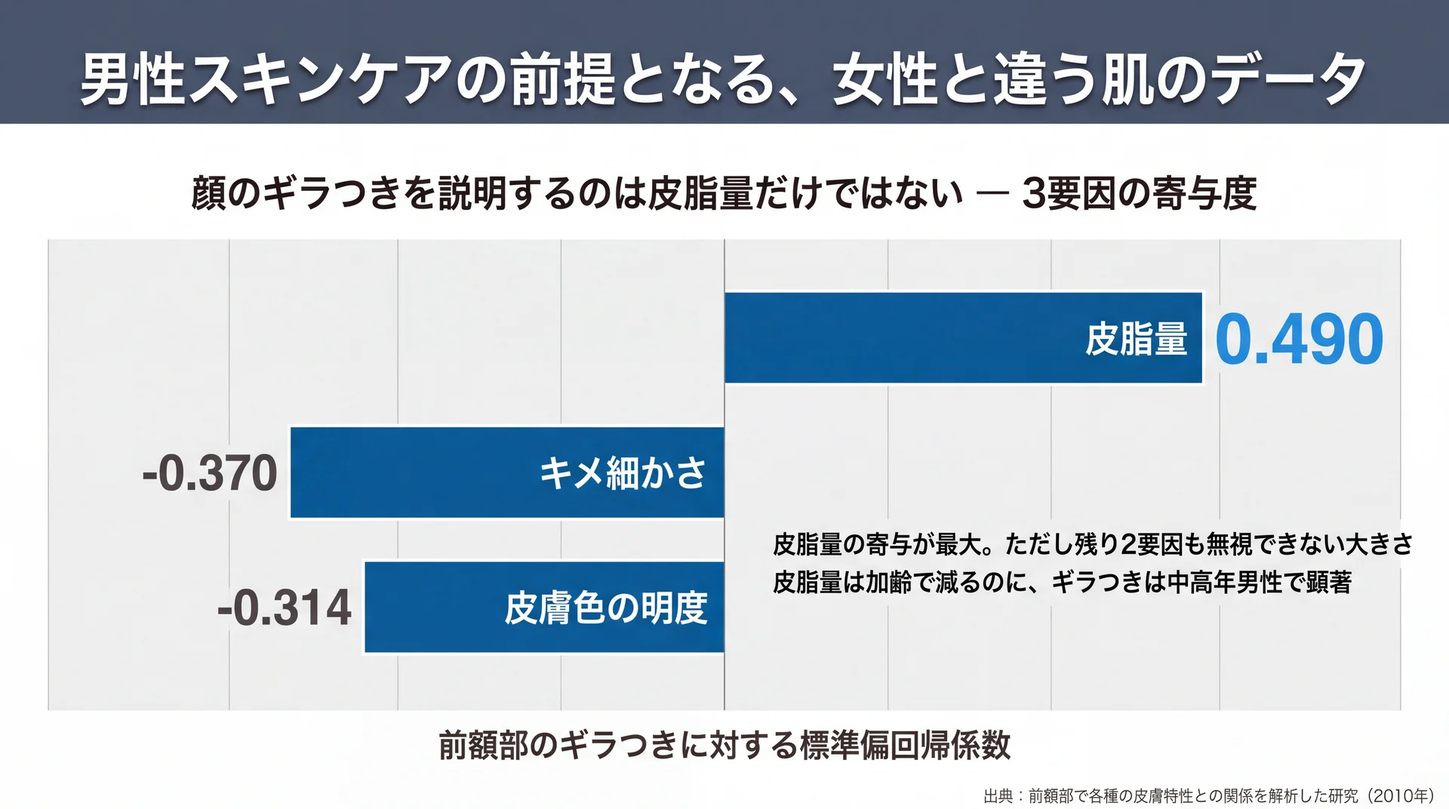
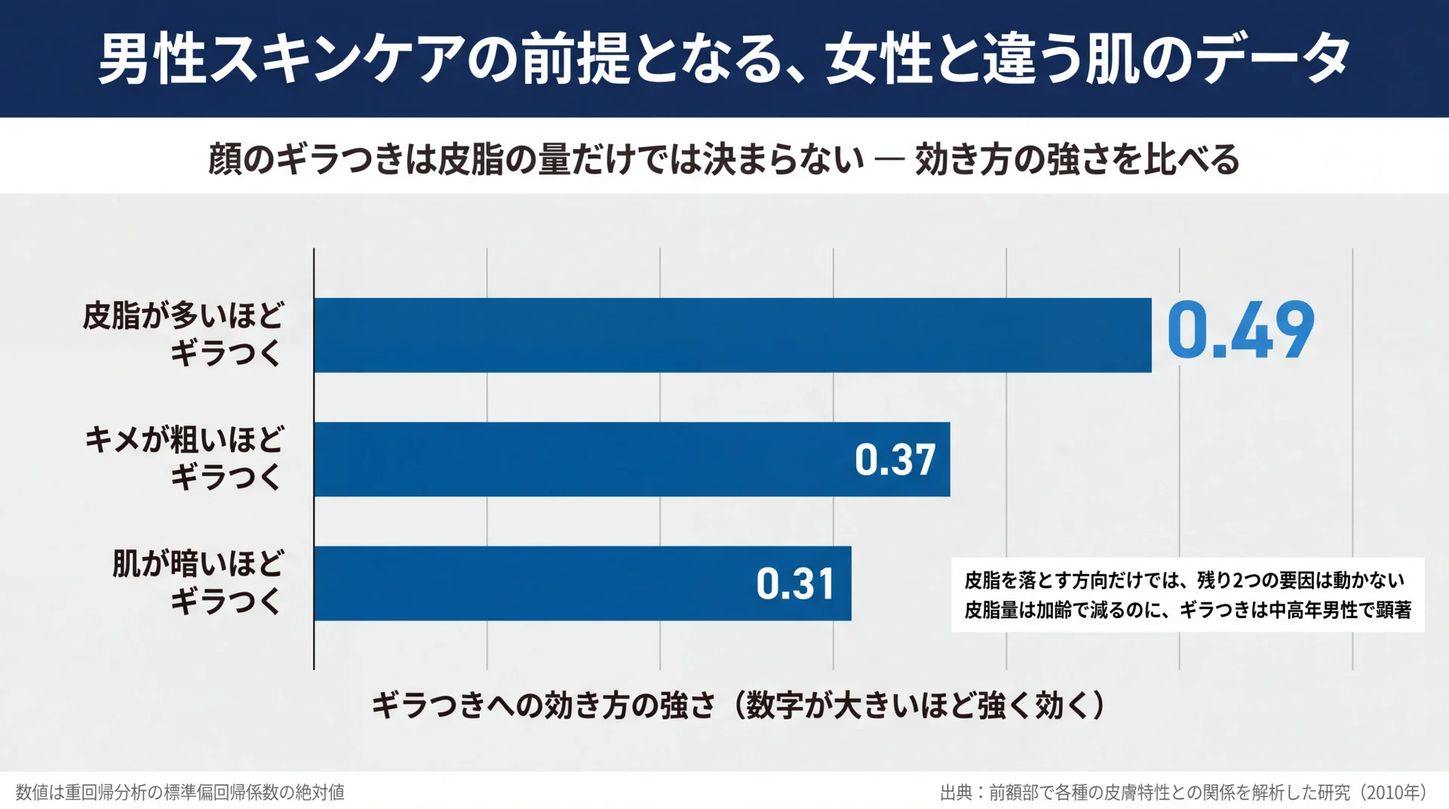
publish: orbis-mr-mens-skincare

diff --git a/2026/08/orbis-mr-mens-skincare.html b/2026/08/orbis-mr-mens-skincare.html
@@ -57,12 +57,12 @@
 </style><h1 style="font-size:32px; font-weight:700; margin:24px 0 16px; padding-bottom:10px; border-bottom:1px solid #eaeef2; line-height:1.3;">男性スキンケアの基本｜女性と違う肌データから決める最小構成</h1>
 <p style="margin:14px 0; line-height:1.7;">男性の肌は「皮脂が多い」だけでは説明がつきません。25〜40歳の日本人男女を比べた研究では、男性の頬は<span style="background:linear-gradient(transparent 60%,#FFFF00 60%)"><strong>水分量が低いうえに、水分が逃げる量は多い</strong></span>と報告されています。塗っても条件が変わらない理由はここにあります。本記事で扱うのは、測定データから見た男性の肌の条件と、そこから決まる最小構成です。全体像は<a href="/mens-skincare/" style="color:#0969da; text-decoration:none; border-bottom:1px solid #eaeef2;">メンズスキンケアの全体像を整理した基本ガイド</a>にまとめています。</p>
 <h2 style="font-size:24px; font-weight:600; margin:32px 0 16px; padding-bottom:8px; border-bottom:1px solid #eaeef2; line-height:1.3;">男性スキンケアの前提となる、女性と違う肌のデータ</h2>
-<p style="margin:14px 0; line-height:1.7;"><img src="https://shun-toda.github.io/html-publish/2026/08/orbis-mr-mens-skincare/h2_01_%E8%82%8C%E3%83%87%E3%83%BC%E3%82%BF_%E7%94%B7%E5%A5%B3%E5%B7%AE.webp" alt="前額部のギラつきへの寄与は皮脂量0.490・キメ細かさ-0.370・明度-0.314で、皮脂以外の2要因も無視できない大きさであることを示した横棒グラフ" loading="lazy" style="max-width:100%; height:auto; display:block; margin:16px auto; border-radius:6px;" /><br><em>ギラつきを説明する3要因の寄与度。皮脂量の寄与が最大でも、キメと明度の2要因も無視できない大きさ（出典: 前額部で各種の皮膚特性との関係を解析した研究〈2010年〉を基に当社作成）</em></p>
+<p style="margin:14px 0; line-height:1.7;"><img src="https://shun-toda.github.io/html-publish/2026/08/orbis-mr-mens-skincare/h2_01_%E8%82%8C%E3%83%87%E3%83%BC%E3%82%BF_%E7%94%B7%E5%A5%B3%E5%B7%AE.webp" alt="ギラつきへの効き方の強さを皮脂の多さ0.49・キメの粗さ0.37・肌の暗さ0.31で並べ、皮脂以外の2要因も無視できない大きさであることを示した横棒グラフ" loading="lazy" style="max-width:100%; height:auto; display:block; margin:16px auto; border-radius:6px;" /><br><em>皮脂を落とす方向だけではギラつきは動かない。効き方の強さは皮脂0.49に対し、キメの粗さ0.37・肌の暗さ0.31（出典: 前額部で各種の皮膚特性との関係を解析した研究〈2010年〉を基に当社作成）</em></p>
 <p style="margin:14px 0; line-height:1.7;">男性の頬は女性より水分量が低く、水分が逃げる量は多いと報告されています。皮脂が多いのに乾くという矛盾した感覚は、この2つが同時に起きているためです。まずは、何がどう違うのかを測定項目のレベルで押さえます。</p>
 <h3 style="font-size:20px; font-weight:600; margin:24px 0 12px; line-height:1.3;">水分は「少ない」だけでなく「逃げやすい」</h3>
 <p style="margin:14px 0; line-height:1.7;">日本香粧品学会誌に掲載された<a href="https://www.jstage.jst.go.jp/article/koshohin/45/3/45_450306/_article/-char/ja" style="color:#0969da; text-decoration:none; border-bottom:1px solid #eaeef2;">成人男女の肌状態を比較した研究（2021年）</a>では、25〜40歳の健常な日本人男女を夏季に測定しています。男性の頬は女性と比べて水分量が低く、経表皮水分蒸散量（角層から空気中へ逃げていく水分の量）が高いという結果でした。さらに、肌の回復率を示す指標と、縮んだ状態からの戻りやすさを示す指標がいずれも低いことも報告されています。</p>
 <p style="margin:14px 0; line-height:1.7;">同じ研究では、頬の角層中にあるスーパーオキシドディスムターゼ1という抗酸化にかかわる物質の量が、<span style="color:red"><strong>女性の半分未満</strong></span>だったことも示されています。加えて、角層の慢性的な炎症の指標とされる比率が男性で有意に高いという結果でした。論文は、こうした差の背景について「スキンケアやサンケアの使用頻度が少ないことだけが原因ではない」と述べています。</p>
-<p style="margin:14px 0; line-height:1.7;">当社はこの結果を、<strong>男性の肌は皮脂が余っている状態ではなく、うるおいを保つ条件のほうが不利な状態にある</strong>と読んでいます。だとすれば、洗って皮脂を落とす工程だけを繰り返しても、条件そのものは変わりません。読者にとっての含意は単純で、<strong>「落とす」と同じ重みで「入れる」「逃がさない」を置く必要がある</strong>ということです。</p>
+<p style="margin:14px 0; line-height:1.7;">ここから読み取れるのは、<strong>男性の肌は皮脂が余っている状態ではなく、うるおいを保つ条件のほうが不利な状態にある</strong>ということです。だとすれば、洗って皮脂を落とす工程だけを繰り返しても、条件そのものは変わりません。読者にとっての含意は単純で、<strong>「落とす」と同じ重みで「入れる」「逃がさない」を置く必要がある</strong>ということです。</p>
 <p style="margin:14px 0; line-height:1.7;">以下は、確認できた一次文献の測定項目を横断して整理したものです。</p>
 <div style="overflow-x:auto; margin:18px 0;"><table style="border-collapse:collapse; width:100%; font-size:14px;">
 <thead style="background:#f6f8fa;">
@@ -105,21 +105,21 @@
 </tbody></table></div>
 <p style="margin:14px 0; line-height:1.7;"><em>データ出典: 上5項目は<a href="https://www.jstage.jst.go.jp/article/koshohin/45/3/45_450306/_article/-char/ja" style="color:#0969da; text-decoration:none; border-bottom:1px solid #eaeef2;">成人男女の肌状態を比較した研究（2021年）</a>、皮膚の厚みは<a href="https://www.jstage.jst.go.jp/article/sccj1979/23/4/23_4_316/_article/-char/ja" style="color:#0969da; text-decoration:none; border-bottom:1px solid #eaeef2;">顔面皮膚厚の超音波測定（1990年発行）</a></em></p>
 <h3 style="font-size:20px; font-weight:600; margin:24px 0 12px; line-height:1.3;">皮膚は厚いが、それは固定値ではない</h3>
-<p style="margin:14px 0; line-height:1.7;">「男性の皮膚は厚い」という説明は広く知られていますが、当社が確認した範囲では、どの程度厚いのかを実測で示した資料は限られます。<a href="https://www.jstage.jst.go.jp/article/sccj1979/23/4/23_4_316/_article/-char/ja" style="color:#0969da; text-decoration:none; border-bottom:1px solid #eaeef2;">超音波断層撮影装置で顔面の皮膚厚を測定した研究（1990年発行）</a>では、額と頬の皮膚厚は男女いずれも加齢に伴って減少し、そのうえで<span style="background:linear-gradient(transparent 60%,#FFFF00 60%)"><strong>すべての年齢層で男性のほうが厚かった</strong></span>と報告されています。顔の12部位を測った結果では、まぶたが顎や頬より薄いことも示されました。</p>
-<p style="margin:14px 0; line-height:1.7;">つまり厚みは、男性のほうが有利な出発点ではあっても、年齢とともに動く値です。当社は、この点を「厚いから丈夫、だから何もしなくてよい」という通念への反証として扱っています。読者にとっては、<strong>今の肌の条件が将来も同じとは限らない</strong>という意味になります。</p>
+<p style="margin:14px 0; line-height:1.7;">「男性の皮膚は厚い」という説明は広く知られていますが、確認できた範囲では、どの程度厚いのかを実測で示した資料は限られます。<a href="https://www.jstage.jst.go.jp/article/sccj1979/23/4/23_4_316/_article/-char/ja" style="color:#0969da; text-decoration:none; border-bottom:1px solid #eaeef2;">超音波断層撮影装置で顔面の皮膚厚を測定した研究（1990年発行）</a>では、額と頬の皮膚厚は男女いずれも加齢に伴って減少し、そのうえで<span style="background:linear-gradient(transparent 60%,#FFFF00 60%)"><strong>すべての年齢層で男性のほうが厚かった</strong></span>と報告されています。顔の12部位を測った結果では、まぶたが顎や頬より薄いことも示されました。</p>
+<p style="margin:14px 0; line-height:1.7;">つまり厚みは、男性のほうが有利な出発点ではあっても、年齢とともに動く値です。この点は、「厚いから丈夫、だから何もしなくてよい」という通念への反証になります。読者にとっては、<strong>今の肌の条件が将来も同じとは限らない</strong>という意味になります。</p>
 <h3 style="font-size:20px; font-weight:600; margin:24px 0 12px; line-height:1.3;">皮脂の量だけでは、見た目のテカリを説明しきれない</h3>
 <p style="margin:14px 0; line-height:1.7;">男性の顔で「ギラつき」と呼ばれる見え方について、<a href="https://www.jstage.jst.go.jp/article/sccj/44/2/44_118/_article/-char/ja" style="color:#0969da; text-decoration:none; border-bottom:1px solid #eaeef2;">前額部で各種の皮膚特性との関係を解析した研究（2010年）</a>があります。重回帰分析の結果、標準偏回帰係数は皮脂量が0.490、キメ細かさが−0.370、皮膚色の明度が−0.314でした。皮脂量の寄与が最大ではあるものの、<span style="color:red"><strong>残り2つの要因も無視できない大きさ</strong></span>です。同じ研究は、皮脂量が加齢に伴って徐々に減少するのに対し、ギラつきはむしろ中高年男性で顕著だという逆転も指摘しています。</p>
-<p style="margin:14px 0; line-height:1.7;">当社はここから、<strong>皮脂の量だけを指標にして手入れを組むと判断を誤りやすい</strong>と考えています。読者にとっての含意は、皮脂を落とす方向にだけ力を入れても見た目が変わりきらない場面がある、ということです。</p>
-<p style="margin:14px 0; line-height:1.7;">なお、「男性の皮脂量は女性の約2.5倍」という数字が広く引用されています。当社が一次文献を追跡した範囲では、この比率の出所を特定できませんでした。本記事では、出典をたどれた測定結果だけを扱います。</p>
+<p style="margin:14px 0; line-height:1.7;">ここから言えるのは、<strong>皮脂の量だけを指標にして手入れを組むと判断を誤りやすい</strong>ということです。読者にとっての含意は、皮脂を落とす方向にだけ力を入れても見た目が変わりきらない場面がある、ということです。</p>
+<p style="margin:14px 0; line-height:1.7;">なお、「男性の皮脂量は女性の約2.5倍」という数字が広く引用されています。一次文献を追跡した範囲では、この比率の出所を特定できませんでした。本記事では、出典をたどれた測定結果だけを扱います。</p>
 <h2 style="font-size:24px; font-weight:600; margin:32px 0 16px; padding-bottom:8px; border-bottom:1px solid #eaeef2; line-height:1.3;">肌の違いは、毎日のケア設計をどう変えるのか</h2>
-<p style="margin:14px 0; line-height:1.7;"><img src="https://shun-toda.github.io/html-publish/2026/08/orbis-mr-mens-skincare/h2_02_%E9%83%A8%E4%BD%8D%E5%88%A5_%E3%82%B1%E3%82%A2%E8%A8%AD%E8%A8%88.webp" alt="Tゾーン・Uゾーン・頬下部を皮脂の出やすさと乾きやすさの2軸に配置し、部位ごとの量の配分を示したマップ" loading="lazy" style="max-width:100%; height:auto; display:block; margin:16px auto; border-radius:6px;" /><br><em>顔の中の条件差を2軸に配置した図。年間で最も乾く頬下部を基準に、洗浄の強さと量を決める（出典: 日本人男性の顔面皮膚を非侵襲的に測定し、女性と比較した研究〈2007年〉を基に当社作成／＊配置はイメージ）</em></p>
+<p style="margin:14px 0; line-height:1.7;"><img src="https://shun-toda.github.io/html-publish/2026/08/orbis-mr-mens-skincare/h2_02_%E9%83%A8%E4%BD%8D%E5%88%A5_%E3%82%B1%E3%82%A2%E8%A8%AD%E8%A8%88.webp" alt="Tゾーン・Uゾーン・頬下部を皮脂の出やすさと乾きやすさの2軸に配置し、部位ごとの量の配分を示したマップ" loading="lazy" style="max-width:100%; height:auto; display:block; margin:16px auto; border-radius:6px;" /><br><em>洗浄の強さと量は、年間で最も乾く頬下部を基準に決める。顔の中の条件差を皮脂の出やすさと乾きやすさの2軸に配置した図（出典: 日本人男性の顔面皮膚を非侵襲的に測定し、女性と比較した研究〈2007年〉を基に当社作成／＊配置はイメージ）</em></p>
 <p style="margin:14px 0; line-height:1.7;">男性の顔はTゾーンとUゾーンの差が女性より大きく、顔全体に同じものを同じ量だけ塗ると、どこかで過不足が出ます。ここからは、前章のデータが日々の手順に何を要求するのかを見ていきます。</p>
 <h3 style="font-size:20px; font-weight:600; margin:24px 0 12px; line-height:1.3;">洗浄は「落とす」より「落としすぎない」に軸足を置く</h3>
-<p style="margin:14px 0; line-height:1.7;">水分が逃げやすい条件のもとでは、洗浄の強さがそのまま乾きの度合いに跳ね返ります。皮脂が気になるほど洗浄力の強いものを選びたくなりますが、<span style="background:linear-gradient(transparent 60%,#FFFF00 60%)"><strong>男性の肌で先に不利になっているのは皮脂の量ではなく水分の保持</strong></span>です。当社は、洗浄工程で狙うのは「余分を落とすこと」までで、そこから先は削る作業になると考えています。</p>
+<p style="margin:14px 0; line-height:1.7;">水分が逃げやすい条件のもとでは、洗浄の強さがそのまま乾きの度合いに跳ね返ります。皮脂が気になるほど洗浄力の強いものを選びたくなりますが、<span style="background:linear-gradient(transparent 60%,#FFFF00 60%)"><strong>男性の肌で先に不利になっているのは皮脂の量ではなく水分の保持</strong></span>です。オルビスでは、洗浄工程で狙うのは「余分を落とすこと」までで、そこから先は削る作業だと考えています。</p>
 <p style="margin:14px 0; line-height:1.7;">洗顔料そのものの選び方や、剤形ごとの違いについては<a href="/mens-skincare/mens-face-wash-basics/" style="color:#0969da; text-decoration:none; border-bottom:1px solid #eaeef2;">メンズ洗顔料の基本と剤形ごとの違い</a>をご覧ください。</p>
 <h3 style="font-size:20px; font-weight:600; margin:24px 0 12px; line-height:1.3;">顔の中で条件が違う——部位で量を変える</h3>
 <p style="margin:14px 0; line-height:1.7;"><a href="https://www.jstage.jst.go.jp/article/sccj1979/41/2/41_2_94/_article/-char/ja" style="color:#0969da; text-decoration:none; border-bottom:1px solid #eaeef2;">日本人男性の顔面皮膚を非侵襲的に測定し、女性と比較した研究（2007年）</a>は、男性顔面のTゾーンとUゾーンの間で、皮膚コンダクタンスと皮脂分泌量の差異が女性よりも大きいことを報告しています。さらに、経表皮水分蒸散量と総伸長値の季節間変動はTゾーンとUゾーンで相反する傾向を示し、<span style="color:red"><strong>頬下部は年間を通じて最も乾燥している部位</strong></span>だとされています。</p>
-<p style="margin:14px 0; line-height:1.7;">この論文は冒頭で「男性顔面の皮膚生理に関する総合的知見はほとんど報告されていない」と述べており、男性の顔を部位ごとに測った資料自体が多くありません。当社はこの結果を、<strong>男性の顔は「一人ひとりの肌タイプ」ではなく「ひとつの顔の中の条件差」で捉えるべきだ</strong>という意味に受け取っています。読者にとっては、肌タイプ診断で自分を1つに分類しきれなくても問題ない、ということになります。</p>
+<p style="margin:14px 0; line-height:1.7;">この論文は冒頭で「男性顔面の皮膚生理に関する総合的知見はほとんど報告されていない」と述べており、男性の顔を部位ごとに測った資料自体が多くありません。この結果が意味するのは、<strong>男性の顔は「一人ひとりの肌タイプ」ではなく「ひとつの顔の中の条件差」で捉えるべきだ</strong>ということです。読者にとっては、肌タイプ診断で自分を1つに分類しきれなくても問題ない、ということになります。</p>
 <div style="overflow-x:auto; margin:18px 0;"><table style="border-collapse:collapse; width:100%; font-size:14px;">
 <thead style="background:#f6f8fa;">
 <tr>
@@ -149,32 +149,32 @@
 </tr>
 </tbody></table></div>
 <blockquote style="border-left:4px solid #d0d7de; padding:6px 16px; margin:18px 0; color:#57606a; background:#f6f8fa;">
-<h3 style="font-size:20px; font-weight:600; margin:24px 0 12px; line-height:1.3;">当社の見解・スタンス</h3>
-<p style="margin:14px 0; line-height:1.7;">当社が確認した範囲では、スキンケアの解説の多くが「自分の肌タイプに合ったものを選びましょう」という助言で締めくくられています。当社は、この助言が男性には当てはまりにくいと考えています。上の測定結果が示すのは、<strong>男性では一人の顔の中でTゾーンとUゾーンの条件が女性以上に離れている</strong>という事実だからです。</p>
-<p style="margin:14px 0; line-height:1.7;">そこで当社のオルビス ミスターは、部位ごとに別のアイテムを増やす方向ではなく、<strong>同じ3本を部位で量だけ変えて使う</strong>設計を採っています。工程を増やせば条件差には対応できますが、続かなければ意味がありません。当社は、続かない原因を本人の意志ではなく工程数の側に置いています。</p>
+<h3 style="font-size:20px; font-weight:600; margin:24px 0 12px; line-height:1.3;">オルビスの見解・スタンス</h3>
+<p style="margin:14px 0; line-height:1.7;">スキンケアの解説の多くは「自分の肌タイプに合ったものを選びましょう」という助言で締めくくられています。ただ、この助言は男性には当てはまりにくいと考えています。上の測定結果が示すのは、<strong>男性では一人の顔の中でTゾーンとUゾーンの条件が女性以上に離れている</strong>という事実だからです。</p>
+<p style="margin:14px 0; line-height:1.7;">そこでオルビス ミスターは、部位ごとに別のアイテムを増やす方向ではなく、<strong>同じ3本を部位で量だけ変えて使う</strong>設計を採っています。工程を増やせば条件差には対応できますが、続かなければ意味がありません。続かない原因は、本人の意志ではなく工程数の側にあると考えています。</p>
 </blockquote>
 <h3 style="font-size:20px; font-weight:600; margin:24px 0 12px; line-height:1.3;">髭剃りと紫外線対策の有無が、10年単位で差になる</h3>
 <p style="margin:14px 0; line-height:1.7;">同じ2007年の研究は、総伸長値が年齢と高い負の相関を示し、男性顔面皮膚の加齢変化の指標となり得ることを示したうえで、<strong>サンスクリーン剤の使用習慣がないことと髭剃り習慣が、加齢変化の進行に影響を与える</strong>と結論しています。日々の手入れの中身より、この2つの習慣の有無のほうが長い時間軸では差として表れる可能性がある、ということです。</p>
-<p style="margin:14px 0; line-height:1.7;">当社はこれを、優先順位の指針として扱っています。3本を丁寧に使うことより先に、<strong>日焼け止めを1つ足すことと、剃った後に何もしない状態をやめること</strong>のほうが、投じる手間に対して返りが大きい場面があります。ここで言えるのは乾燥を防ぐことと紫外線を浴びる時間を減らすという日常の手入れの範囲の話であり、加齢そのものを止めたり戻したりできるという意味ではありません。なお、洗顔料・化粧水・クリームをどの順番で使うかとその理由は<a href="/mens-skincare/skincare-order/" style="color:#0969da; text-decoration:none; border-bottom:1px solid #eaeef2;">洗顔料・化粧水・クリームを使う順番と理由</a>で扱っています。</p>
+<p style="margin:14px 0; line-height:1.7;">この結論は、優先順位の指針として使えます。3本を丁寧に使うことより先に、<strong>日焼け止めを1つ足すことと、剃った後に何もしない状態をやめること</strong>のほうが、投じる手間に対して返りが大きい場面があります。ここで言えるのは乾燥を防ぐことと紫外線を浴びる時間を減らすという日常の手入れの範囲の話であり、加齢そのものを止めたり戻したりできるという意味ではありません。なお、洗顔料・化粧水・クリームをどの順番で使うかとその理由は<a href="/mens-skincare/skincare-order/" style="color:#0969da; text-decoration:none; border-bottom:1px solid #eaeef2;">洗顔料・化粧水・クリームを使う順番と理由</a>で扱っています。</p>
 <h2 style="font-size:24px; font-weight:600; margin:32px 0 16px; padding-bottom:8px; border-bottom:1px solid #eaeef2; line-height:1.3;">何もしない状態が続くと、男性の肌には何が起きるのか</h2>
-<p style="margin:14px 0; line-height:1.7;"><img src="https://shun-toda.github.io/html-publish/2026/08/orbis-mr-mens-skincare/h2_03_%E6%94%BE%E7%BD%AE_%E6%B8%AC%E5%AE%9A%E5%B7%AE.webp" alt="角層中の抗酸化にかかわる物質が女性の半分未満であるなど、男性が不利な側にある4測定項目の男女比較グラフ" loading="lazy" style="max-width:100%; height:auto; display:block; margin:16px auto; border-radius:6px;" /><br><em>男女差が報告されている4項目。抗酸化にかかわる物質は女性の半分未満で、炎症の指標は高い側（出典: 日本香粧品学会誌 45(3), 2021 を基に当社作成）</em></p>
+<p style="margin:14px 0; line-height:1.7;"><img src="https://shun-toda.github.io/html-publish/2026/08/orbis-mr-mens-skincare/h2_03_%E6%94%BE%E7%BD%AE_%E6%B8%AC%E5%AE%9A%E5%B7%AE.webp" alt="角層中の抗酸化にかかわる物質が女性の半分未満、慢性炎症の指標は高いなど、男性が不利な側にある4測定項目をまとめた図" loading="lazy" style="max-width:100%; height:auto; display:block; margin:16px auto; border-radius:6px;" /><br><em>手入れを始める前から、男性は4項目とも不利な側にある。抗酸化にかかわる物質は女性の半分未満、炎症の指標は高い側（出典: 日本香粧品学会誌 45(3), 2021 を基に当社作成）</em></p>
 <p style="margin:14px 0; line-height:1.7;">何もしない状態そのものを長期追跡した研究は多くありませんが、男性の肌で先に不利になっている項目は測定されています。断定はできないという前提で、確認できた範囲を示します。</p>
 <blockquote style="border-left:4px solid #d0d7de; padding:6px 16px; margin:18px 0; color:#57606a; background:#f6f8fa;">
 <h3 style="font-size:20px; font-weight:600; margin:24px 0 12px; line-height:1.3;">研究で報告されている測定結果</h3>
 <p style="margin:14px 0; line-height:1.7;">先に挙げた2021年の研究では、男性の頬は明度が有意に低く、赤みと黄みが有意に高いという測色結果も出ています。抗酸化にかかわる物質と炎症の指標が不利な側にあることは、すでに見たとおりです。ここで注目したいのは、論文がこの差について<strong>「スキンケアやサンケアの使用頻度が少ないことだけが原因ではない」</strong>と述べている点です。</p>
 <p style="margin:14px 0; line-height:1.7;">※ ここで紹介しているのは研究で報告された測定結果であり、当社製品の効果を示すものではありません。</p>
 </blockquote>
-<p style="margin:14px 0; line-height:1.7;">当社はこの一文を二重の意味で受け取っています。ひとつは、手入れを始めればすべてが揃うわけではないということ。もうひとつは、<span style="color:red"><strong>もともと条件が不利な側にいる以上、手入れをしない状態では、その条件がそのまま残りやすい</strong></span>ということです。劇的な変化を期待するのではなく、不利な条件をそのままにしないという水準で始めれば十分です。</p>
+<p style="margin:14px 0; line-height:1.7;">この一文は、二重の意味で受け取れます。ひとつは、手入れを始めればすべてが揃うわけではないということ。もうひとつは、<span style="color:red"><strong>もともと条件が不利な側にいる以上、手入れをしない状態では、その条件がそのまま残りやすい</strong></span>ということです。劇的な変化を期待するのではなく、不利な条件をそのままにしないという水準で始めれば十分です。</p>
 <p style="margin:14px 0; line-height:1.7;">なお、鏡を見て「肌が汚い」と感じる状態は、テカリ・赤み・ザラつきなど複数の要素が混ざっています。どの要素が自分に当てはまるかの切り分けは<a href="/mens-skincare/rough-skin-men/" style="color:#0969da; text-decoration:none; border-bottom:1px solid #eaeef2;">「肌が汚い」と言われる原因の切り分け方</a>で扱っています。強い痛みや腫れを伴う炎症、広い範囲に広がる症状が続く場合は、自分での対処を重ねず皮膚科医にご相談ください。</p>
 <h2 style="font-size:24px; font-weight:600; margin:32px 0 16px; padding-bottom:8px; border-bottom:1px solid #eaeef2; line-height:1.3;">女性用の化粧品を男性が使ってもよいのか</h2>
 <p style="margin:14px 0; line-height:1.7;"><img src="https://shun-toda.github.io/html-publish/2026/08/orbis-mr-mens-skincare/h2_04_%E5%A5%B3%E6%80%A7%E7%94%A8%E5%8C%96%E7%B2%A7%E5%93%81_%E5%88%A4%E6%96%AD%E8%BB%B8.webp" alt="洗浄の強さ・油分の量・部位で量を変えられるかという、女性用化粧品を使う際に確認する3つの判断軸を並べた図" loading="lazy" style="max-width:100%; height:auto; display:block; margin:16px auto; border-radius:6px;" /><br><em>成分表の異同ではなく、洗浄の強さ・油分の量・量を部位で調整できるかの3点で判断する（図はイメージ）</em></p>
 <p style="margin:14px 0; line-height:1.7;">使ってはいけないという決まりはありません。判断すべきなのは性別の表示ではなく、自分の顔の条件に合っているかどうかです。家族のものを借りて使い始めること自体が、間違いというわけでもありません。</p>
 <p style="margin:14px 0; line-height:1.7;">見るべき点を3つに整理します。ひとつめは<strong>洗浄の強さ</strong>で、皮脂分泌量の傾向が違う以上、同じ洗顔料でTゾーンが物足りない、あるいは頬下部が乾きすぎるという偏りは起こり得ます。ふたつめは<strong>油分の量</strong>です。とろみの強いものは、Tゾーンでは重く感じられる一方、頬下部には合うことがあります。みっつめは<strong>部位で量を変えられるか</strong>です。1本で顔全体を仕上げる前提の設計では、条件差の大きい男性の顔で調整の余地が小さくなります。</p>
-<p style="margin:14px 0; line-height:1.7;">当社は、成分表の異同よりも<strong>設計思想の差</strong>を見るべきだと考えています。当社が男性向けに別のラインを置いているのは、成分が特別だからではなく、Tゾーンと頬下部の条件差が大きく、そこに髭剃りという毎日の負担が重なるという前提が異なるためです。<strong>女性用を試して合わないと感じた場合、それは肌が弱いのではなく前提条件が合っていないだけ</strong>というのが、当社の見方です。</p>
-<h2 style="font-size:24px; font-weight:600; margin:32px 0 16px; padding-bottom:8px; border-bottom:1px solid #eaeef2; line-height:1.3;">当社が3STEPを男性の最小構成と考える理由</h2>
-<p style="margin:14px 0; line-height:1.7;"><img src="https://shun-toda.github.io/html-publish/2026/08/orbis-mr-mens-skincare/orbis_mr_trial_3step.webp" alt="オルビス ミスターの洗顔料・化粧水・保湿クリームの3本とパッケージを白背景に並べた商品写真" loading="lazy" style="max-width:100%; height:auto; display:block; margin:16px auto; border-radius:6px;" /><br><em>当社が最小構成としている3本（オルビス ミスター フォーミングウォッシュ／エッセンスローション／モイスチャライジングクリーム）。画像は7日間体験セットのトライアルサイズです</em></p>
-<p style="margin:14px 0; line-height:1.7;">当社は、洗う・水分を入れる・逃がさないという3つを最小単位と考え、この3本でラインを構成しています。ここまで見てきたデータが、そのまま理由になります。</p>
-<p style="margin:14px 0; line-height:1.7;">男性の肌は水分量が低く、逃げる量が多い状態です。だから「洗う」だけでは条件が変わらず、「入れる」だけでは逃げていきます。3つ目の工程を落とすと、前の2つの投資が回収できません。<span style="background:linear-gradient(transparent 60%,#FFFF00 60%)"><strong>当社が3本を下限に置いているのは、これ以上減らすと工程どうしがつながらなくなるから</strong></span>です。当社のオルビス ミスターは、20〜40代の男性を対象に、洗顔料・化粧水・保湿クリームの3STEPで構成しています。</p>
+<p style="margin:14px 0; line-height:1.7;">見るべきなのは、成分表の異同よりも<strong>設計思想の差</strong>です。オルビスが男性向けに別のラインを置いているのは、成分が特別だからではなく、Tゾーンと頬下部の条件差が大きく、そこに髭剃りという毎日の負担が重なるという前提が異なるためです。<strong>女性用を試して合わないと感じた場合、それは肌が弱いのではなく前提条件が合っていないだけ</strong>とも言えます。</p>
+<h2 style="font-size:24px; font-weight:600; margin:32px 0 16px; padding-bottom:8px; border-bottom:1px solid #eaeef2; line-height:1.3;">オルビスが3STEPを男性の最小構成と考える理由</h2>
+<p style="margin:14px 0; line-height:1.7;"><img src="https://shun-toda.github.io/html-publish/2026/08/orbis-mr-mens-skincare/orbis_mr_trial_3step.webp" alt="オルビス ミスターの洗顔料・化粧水・保湿クリームの3本とパッケージを白背景に並べた商品写真" loading="lazy" style="max-width:100%; height:auto; display:block; margin:16px auto; border-radius:6px;" /><br><em>最小構成としている3本（オルビス ミスター フォーミングウォッシュ／エッセンスローション／モイスチャライジングクリーム）。画像は7日間体験セットのトライアルサイズです</em></p>
+<p style="margin:14px 0; line-height:1.7;">洗う・水分を入れる・逃がさないという3つを最小単位と考え、この3本でラインを構成しています。ここまで見てきたデータが、そのまま理由になります。</p>
+<p style="margin:14px 0; line-height:1.7;">男性の肌は水分量が低く、逃げる量が多い状態です。だから「洗う」だけでは条件が変わらず、「入れる」だけでは逃げていきます。3つ目の工程を落とすと、前の2つの投資が回収できません。<span style="background:linear-gradient(transparent 60%,#FFFF00 60%)"><strong>3本を下限に置いているのは、これ以上減らすと工程どうしがつながらなくなるから</strong></span>です。オルビス ミスターは、20〜40代の男性を対象に、洗顔料・化粧水・保湿クリームの3STEPで構成しています。</p>
 <p style="margin:14px 0; line-height:1.7;">逆に、3本より先に何かを足すとしたら何かという問いには、2007年の研究が答えを示しています。順番としては、アイテムを増やすより先に<strong>日焼け止めを日常に入れること</strong>、そして<strong>剃った後の肌をそのままにしないこと</strong>です。工程数を増やす前に、この2つの習慣が空いていないかを確認してください。</p>
 <!-- wp:group {"style":{"border":{"radius":"16px","color":"#085818","style":"solid","width":"1px"},"spacing":{"padding":{"top":"24px","right":"20px","bottom":"24px","left":"20px"}}},"layout":{"type":"constrained"}} -->
 <div class="wp-block-group has-border-color" style="border-color:#085818;border-style:solid;border-width:1px;border-radius:16px;padding-top:24px;padding-right:20px;padding-bottom:24px;padding-left:20px">
@@ -195,7 +195,7 @@
 <p style="margin:14px 0; line-height:1.7;"><strong>Q. スキンケアを何もしないと肌はどうなりますか。</strong><br>A. 何もしない状態を追跡した研究は多くないため、断定はできません。ただし測定上、男性は抗酸化にかかわる物質が少なく炎症の指標が高い側にいるため、手入れをしない状態では、不利な条件がそのまま残ることになります。</p>
 <p style="margin:14px 0; line-height:1.7;"><strong>Q. 女性用の化粧品を男性が使ってもよいのですか。</strong><br>A. 使ってはいけない決まりはありません。判断軸は洗浄の強さ、油分の量、部位ごとに量を変えられるかの3点です。合わないと感じた場合は、前提としている顔の条件が違うだけということもあります。</p>
 <h2 style="font-size:24px; font-weight:600; margin:32px 0 16px; padding-bottom:8px; border-bottom:1px solid #eaeef2; line-height:1.3;">まとめ</h2>
-<p style="margin:14px 0; line-height:1.7;">男性の肌は皮脂が多いという一点では語れません。水分量が低く逃げやすいこと、顔の中の条件差が女性より大きいこと、皮膚の厚みが加齢で動くこと——測定されている事実はこの3つです。だから当社は、洗う・入れる・逃がさないの3本を下限に置き、量を部位で変える運用を勧めています。</p>
+<p style="margin:14px 0; line-height:1.7;">男性の肌は皮脂が多いという一点では語れません。水分量が低く逃げやすいこと、顔の中の条件差が女性より大きいこと、皮膚の厚みが加齢で動くこと——測定されている事実はこの3つです。だからオルビスは、洗う・入れる・逃がさないの3本を下限に置き、量を部位で変える運用を勧めています。</p>
 <p style="margin:14px 0; line-height:1.7;">年代別の見直し方や、始めてからの時間の使い方まで含めた全体像は、<a href="/mens-skincare/" style="color:#0969da; text-decoration:none; border-bottom:1px solid #eaeef2;">メンズスキンケアの始め方をまとめた総合ガイド</a>で整理しています。</p>
 <!-- wp:group {"style":{"border":{"radius":"16px","color":"#085818","style":"solid","width":"1px"},"spacing":{"padding":{"top":"24px","right":"20px","bottom":"24px","left":"20px"}}},"layout":{"type":"constrained"}} -->
 <div class="wp-block-group has-border-color" style="border-color:#085818;border-style:solid;border-width:1px;border-radius:16px;padding-top:24px;padding-right:20px;padding-bottom:24px;padding-left:20px">
